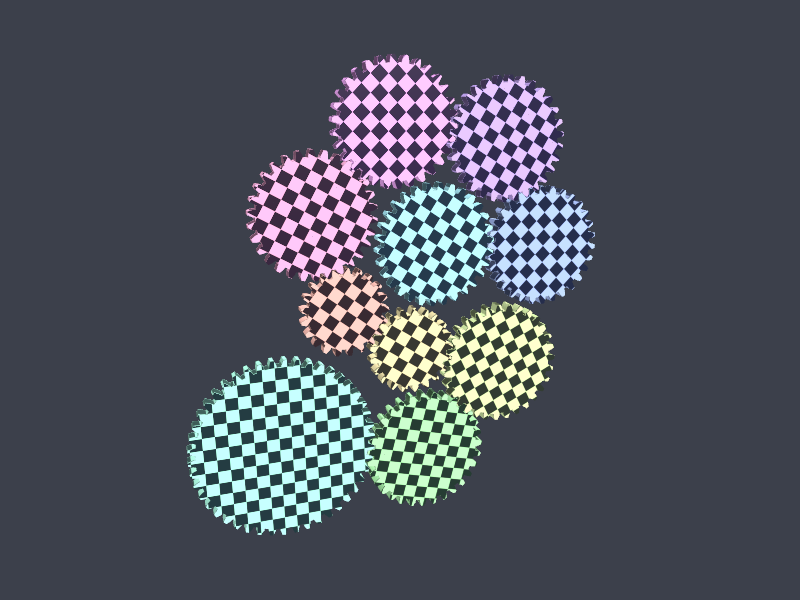
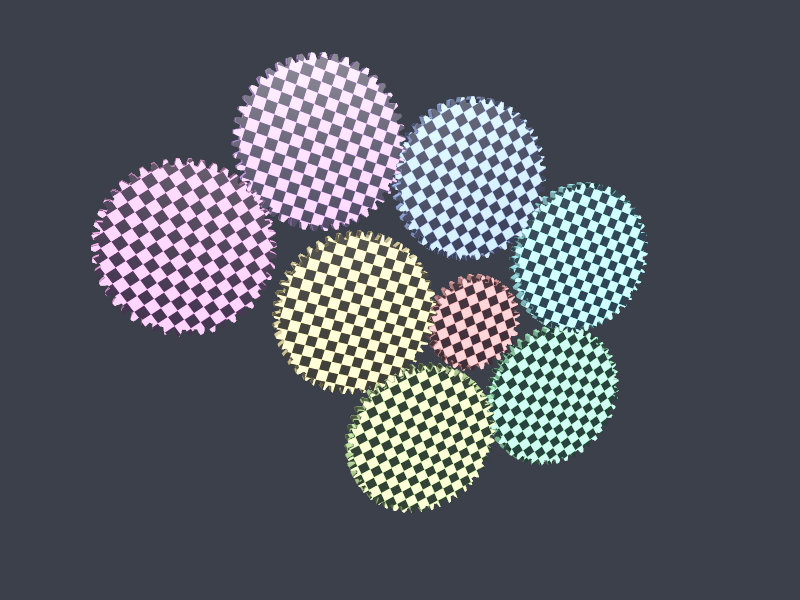
update ss

Changed region(s): [[0.0938, 0.09, 0.8125, 0.9]]

diff --git a/README.md b/README.md
@@ -14,8 +14,9 @@ including the seed, so any train can be reproduced.
 
 ![vulkangears running](docs/screenshot.png)
 
-*(actual window capture, running on the software rasteriser in this container -
-on a machine with a GPU the device line will name that GPU instead)*
+*(actual window capture, taken from the app's own window by the screenshot MCP
+server - the console's device line names whichever GPU or software rasteriser
+was in use)*
 
 ---
 
